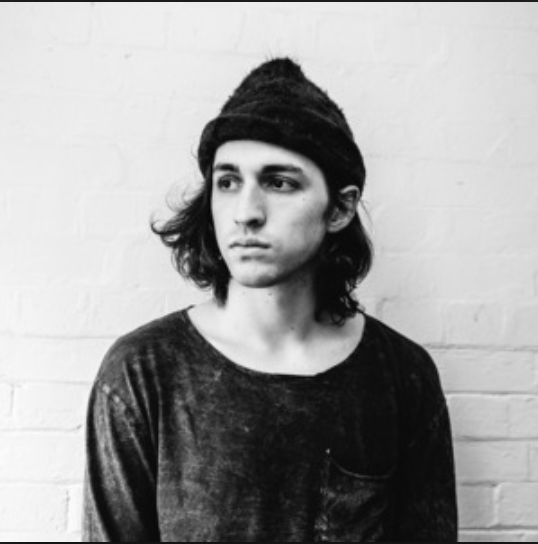
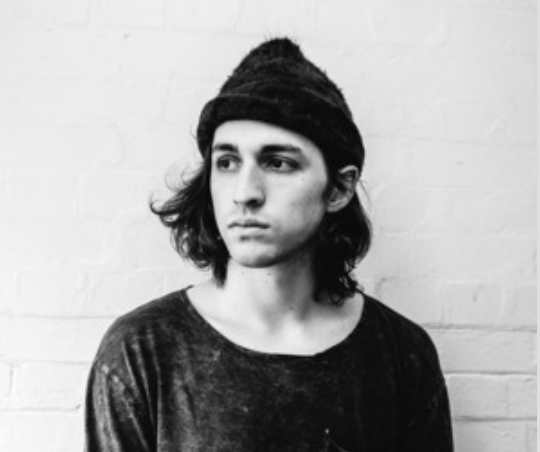
Add new artist images

diff --git a/app/assets/stylesheets/api/songs.scss b/app/assets/stylesheets/api/songs.scss
@@ -29,6 +29,7 @@
     flex-direction: row;
     justify-content: space-between;
     height: 60px;
+    align-items: center;
 
     .left-song-detail {
       display: flex;
@@ -141,7 +142,7 @@
 
 
 .song-options-container {
-  margin-top: 20px;
+  // margin-top: 20px;
   margin-right: 100px;
   
   .song-option-btn {

diff --git a/db/seeds.rb b/db/seeds.rb
@@ -62,8 +62,8 @@ dp_album_1 = ArtistAlbum.create(artist_id: daft_punk.id, album_id: dp_discovery.
 
 #Bruno Mars
 bruno_mars = Artist.create(name: "Bruno Mars")
-bm_artist_photo = File.open("app/assets/images/bruno_mars_artist.jpg")
-bruno_mars.photo.attach(io: bm_artist_photo, filename: 'bruno_mars_artist.jpg')
+bm_artist_photo = File.open("app/assets/images/bruno_mars_artist.png")
+bruno_mars.photo.attach(io: bm_artist_photo, filename: 'bruno_mars_artist.png')
 
 #Doo Wops & Hooligans
 bm_doo_wops_hooligans = Album.create(title: "Doo-Wops & Hooligans", year: 2010)
@@ -113,8 +113,8 @@ bm_album_2 = ArtistAlbum.create(artist_id: bruno_mars.id, album_id: bm_24k_magic
 
 #Linkin Park
 linkin_park = Artist.create(name: "Linkin Park")
-lp_artist_photo = File.open("app/assets/images/linkin_park_artist.jpg")
-linkin_park.photo.attach(io: lp_artist_photo, filename: 'linkin_park_artist.jpg')
+lp_artist_photo = File.open("app/assets/images/linkin_park_artist.png")
+linkin_park.photo.attach(io: lp_artist_photo, filename: 'linkin_park_artist.png')
 
 lp_minutes_to_midnight = Album.create(title: "Minutes to Midnight", year: 2007)
 lp_minutes_to_midnight_photo = File.open("app/assets/images/linkin_park_minutes_to_midnight.png")
@@ -389,8 +389,8 @@ madeon_album_1 = ArtistAlbum.create(artist_id: madeon.id, album_id: madeon_adven
 
 #Maroon 5
 maroon_5 = Artist.create(name: "Maroon 5")
-maroon_5_artist_photo = File.open("app/assets/images/maroon_5_artist.jpg")
-maroon_5.photo.attach(io: maroon_5_artist_photo, filename: 'maroon_5_artist.jpg')
+maroon_5_artist_photo = File.open("app/assets/images/maroon_5_artist.png")
+maroon_5.photo.attach(io: maroon_5_artist_photo, filename: 'maroon_5_artist.png')
 
 maroon_5_songs_about_jane = Album.create(title: "Songs About Jane", year: 2009)
 maroon_5_songs_about_jane_photo = File.open("app/assets/images/maroon_5_songs_about_jane.png")
